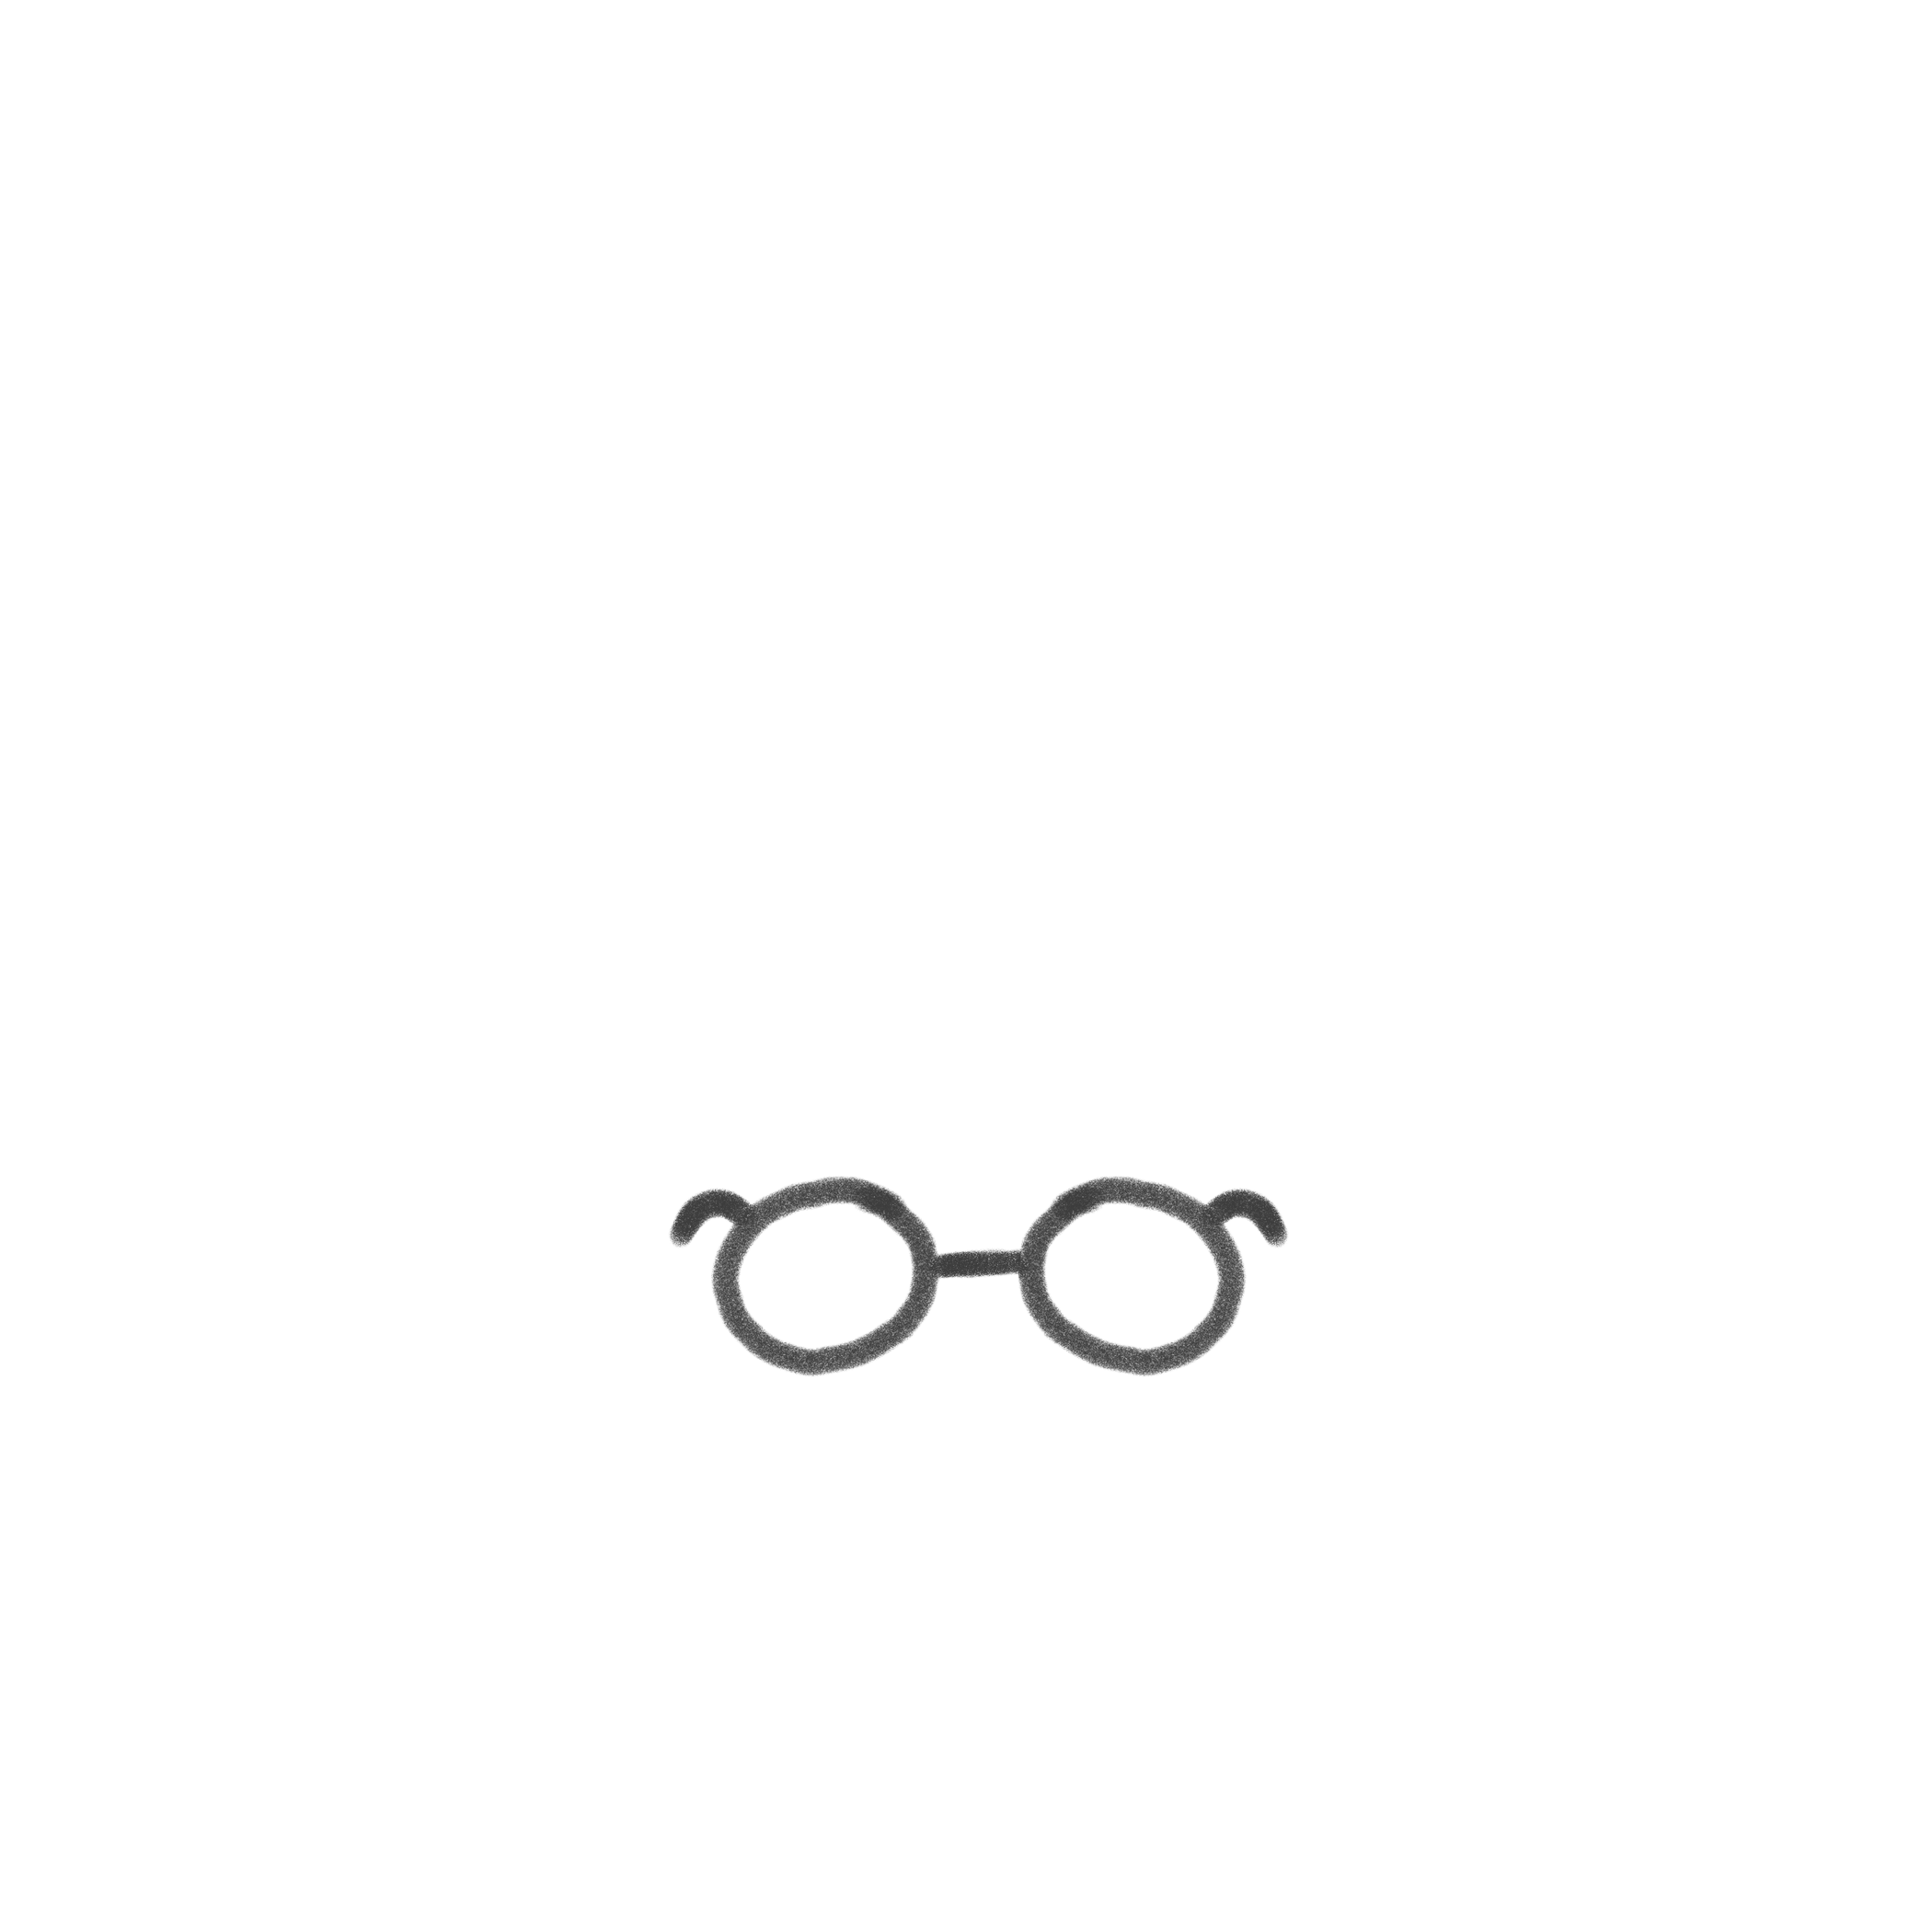
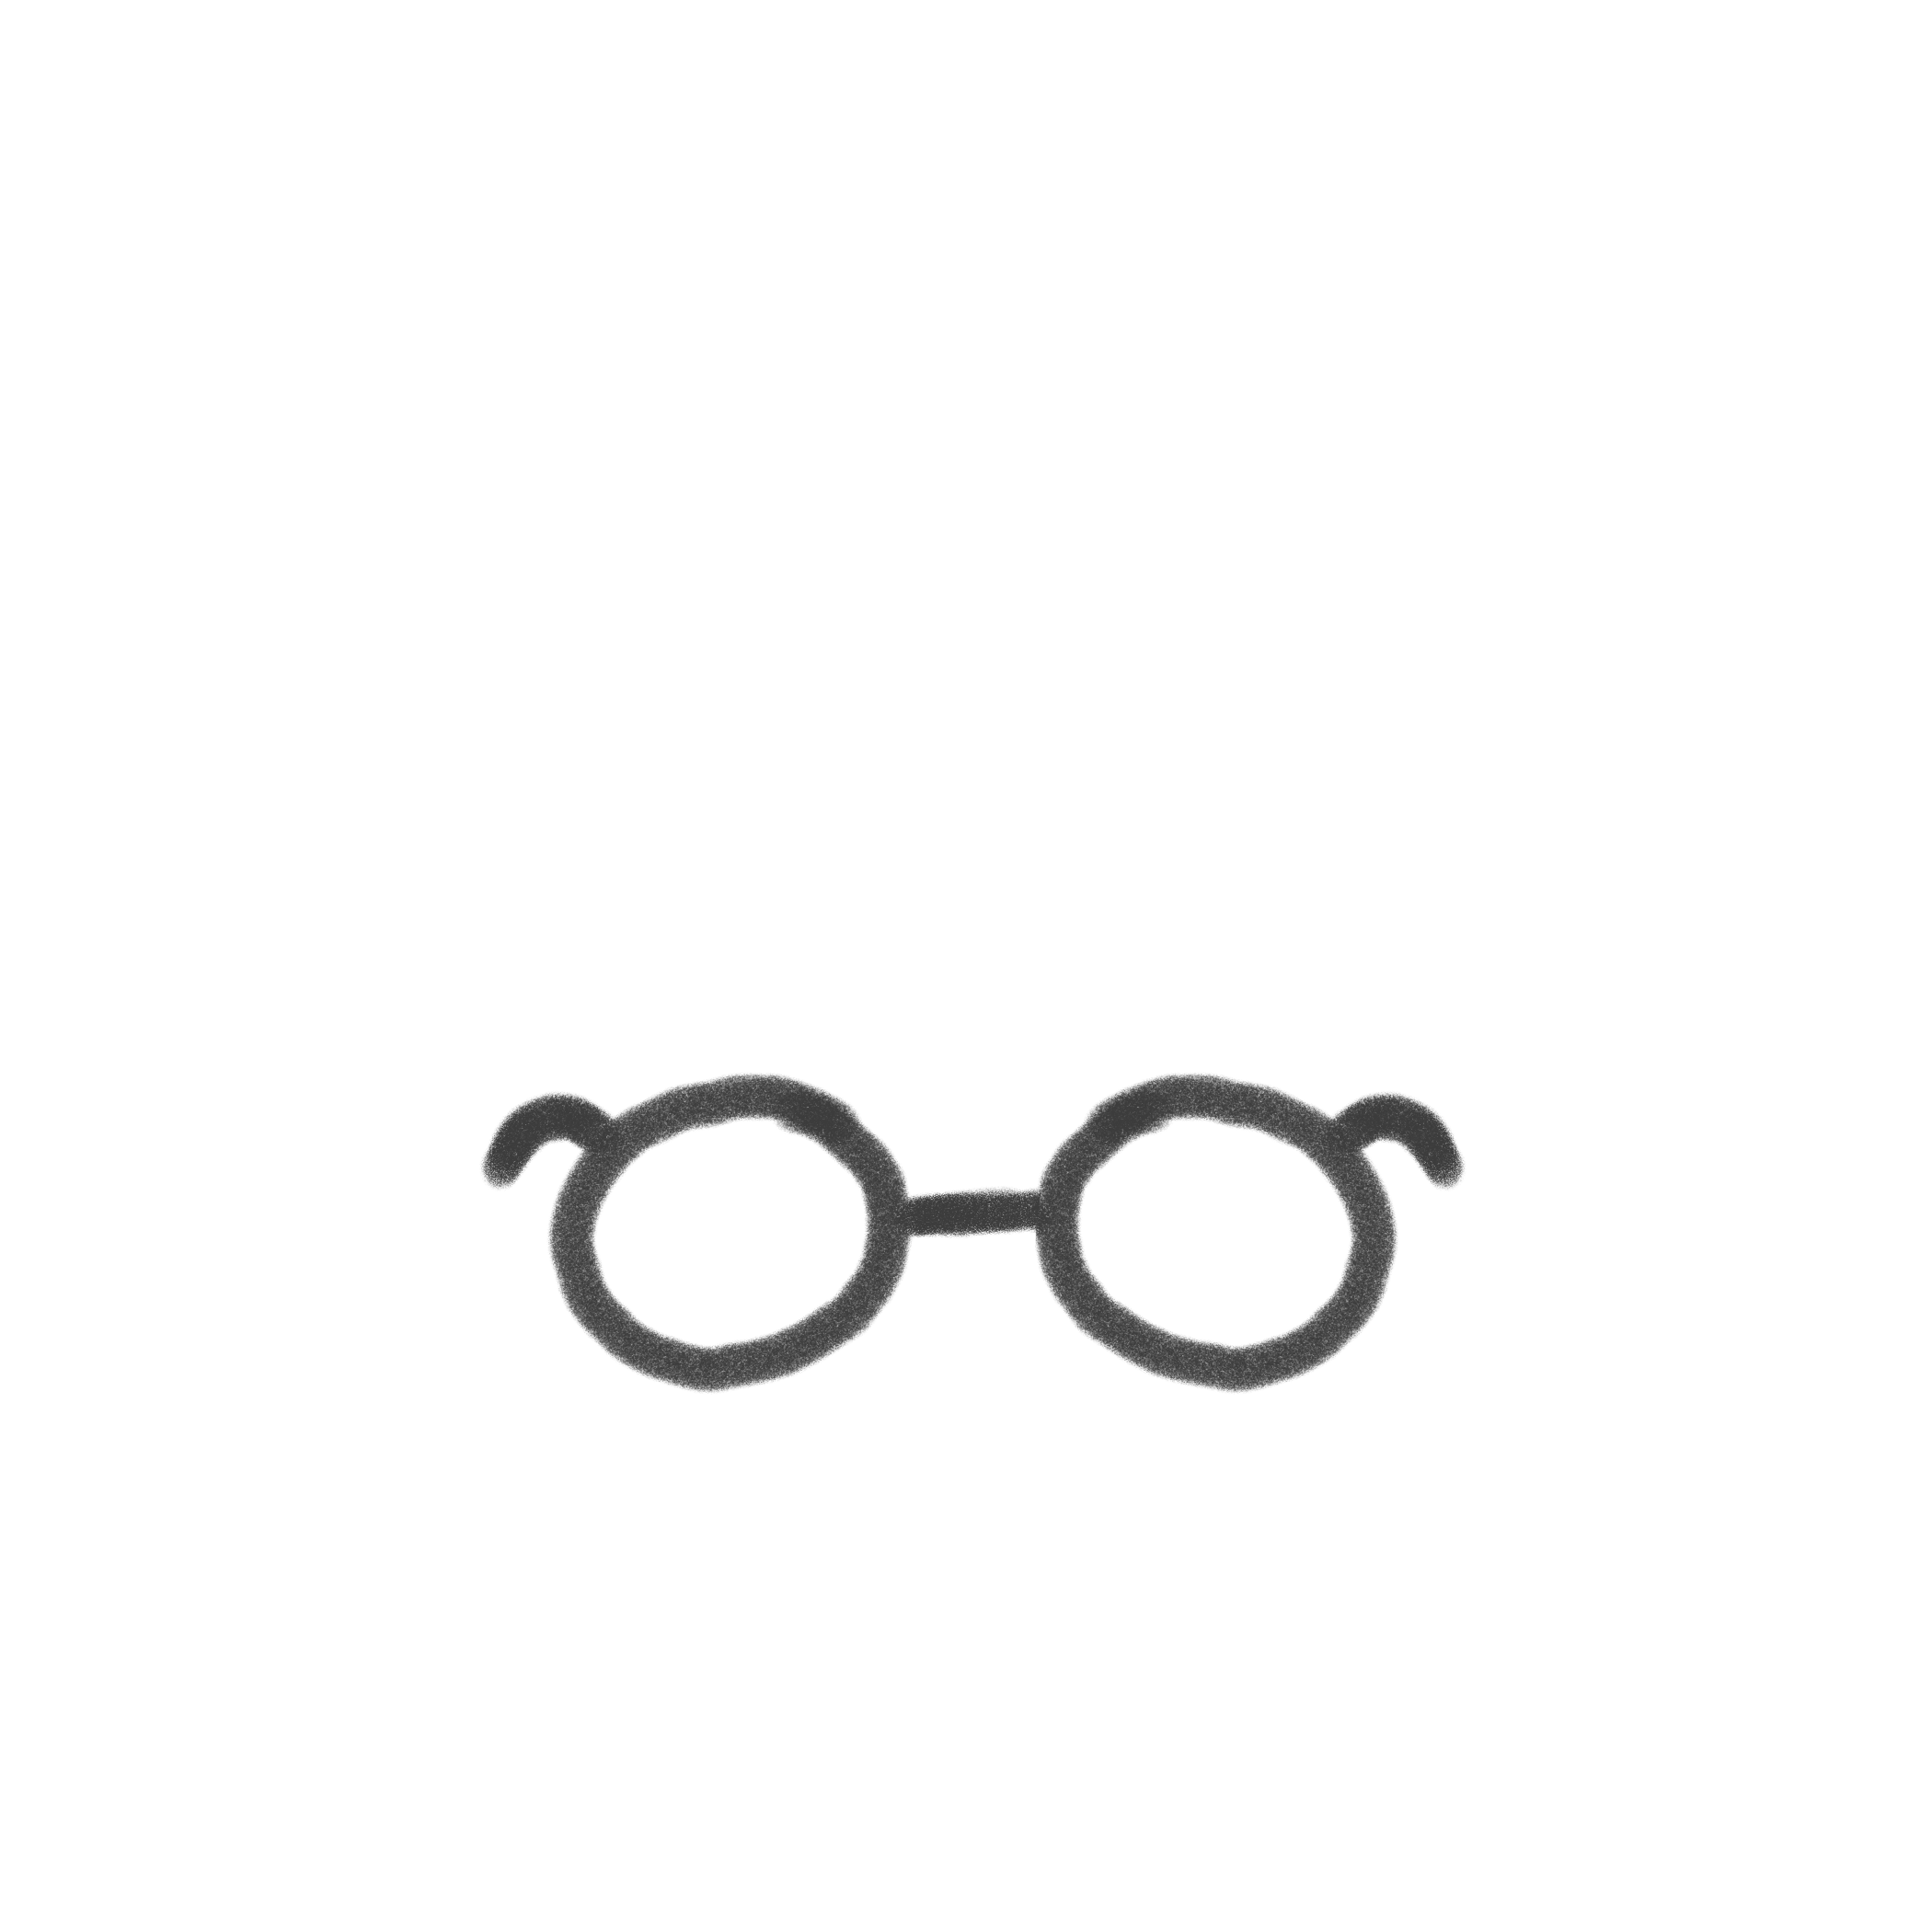
Stop rescaling the glasses, move accessory layer under hair
The glasses were already drawn to the correct scale/position for the
base avatar — my earlier crop-and-rescale (matched to pupil distance)
shrank them for no reason. Use the provided artwork as-is, same
treatment as the shirt.

Also reorder the avatar stack so accessory renders before hair instead
of after, so long hair correctly covers the glasses' temples instead
of the glasses poking through on top.

Claude-Session: https://claude.ai/code/session_01SYpgQijgtcVR5cbL1S4J7h

Changed region(s): [[0.2476, 0.5571, 0.7738, 0.7429]]

diff --git a/avatar.js b/avatar.js
@@ -1,9 +1,11 @@
 // Shared avatar rendering: a fixed bald base (assets/avatar/avatar-base.png)
 // with optional transparent overlays stacked on top, in this order: shirt
-// (assets/avatar-shirt-<value>.png), hair (assets/avatar-hair-<value>.png),
-// hat (assets/avatar-hat-<value>.png), accessory
-// (assets/avatar-accessory-<value>.png) — profiles.avatar_shirt / avatar_hair
-// / avatar_hat / avatar_accessory each pick their own overlay independently,
+// (assets/avatar-shirt-<value>.png), accessory
+// (assets/avatar-accessory-<value>.png), hair (assets/avatar-hair-<value>.png),
+// hat (assets/avatar-hat-<value>.png) — accessory sits *under* hair on
+// purpose (glasses temples should disappear behind long hair, not poke
+// through it) — profiles.avatar_shirt / avatar_hair / avatar_hat /
+// avatar_accessory each pick their own overlay independently,
 // so any combination can be worn together, and all four default to null/none
 // (the plain bare-chested/bald look). 'black' is the one shirt option so
 // far, fully open to everyone — no lock, just like the hair options. The
@@ -50,7 +52,7 @@
   // avatar_hat, avatar_accessory, avatar_shirt) set. avatarUrl is only ever
   // a leftover legacy full-image override at this point (see comment above)
   // — a fresh pick never sets it anymore, so the common path is the base +
-  // shirt + hair + hat + accessory stack. No earth/mono color variants for
+  // shirt + accessory + hair + hat stack. No earth/mono color variants for
   // these layers yet (only the legacy avatarUrl path goes through
   // Palette.avatarSrc) — those are plain line art for now.
   function html(avatarUrl, avatarHair, avatarHat, avatarAccessory, avatarShirt) {
@@ -65,9 +67,9 @@
     return `<span class="ist-avatar-stack">`
       + `<img src="${esc(BASE_URL)}" alt="">`
       + (shirt ? `<img src="${esc(shirt)}" alt="">` : '')
+      + (accessory ? `<img src="${esc(accessory)}" alt="">` : '')
       + (hair ? `<img src="${esc(hair)}" alt="">` : '')
       + (hat ? `<img src="${esc(hat)}" alt="">` : '')
-      + (accessory ? `<img src="${esc(accessory)}" alt="">` : '')
       + `</span>`;
   }
 